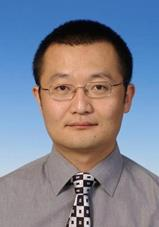
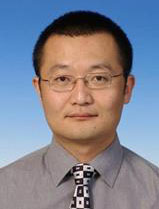
Updated Robins and Ziyuan's Picture

diff --git a/index.html b/index.html
@@ -8,9 +8,11 @@
     <link rel="shortcut icon" href="http://www.gmissionhkust.com/favicon.ico">
   <!-- Bootstrap -->
   <link rel="stylesheet" href="css/bootstrap.css" >
-<link rel="stylesheet" href="//netdna.bootstrapcdn.com/bootstrap/3.3.6/css/bootstrap.min.css">
+  <link rel="stylesheet" href="//netdna.bootstrapcdn.com/bootstrap/3.3.6/css/bootstrap.min.css">
 <link rel="stylesheet" href="//blueimp.github.io/Gallery/css/blueimp-gallery.min.css">
 <link rel="stylesheet" href="css/bootstrap-image-gallery.css">
+
+
   
 	
 
@@ -291,6 +293,17 @@ Chen Jason Zhang, Lei Chen, H. V. Jagadish, and Chen Caleb Cao. "Reducing uncert
         <p>M.Sc. Student, HKUST</p>
 
       </div>
+      
+      <div class="col-lg-4 col-sm-12 text-center col-md-4" data-holder-rendered="true">
+        
+
+      </div>
+      <div class="col-lg-4 col-sm-12 text-center col-md-4"><img src="images/Team Members/Libin Zheng.png" alt="140x140" class="img-circle" style="width: 140px; height: 184px;" data-holder-rendered="true">
+        <h3>Libin ZHENG</h3>
+        <p>Ph.D. Student, HKUST</p>
+
+      </div>
+      
 
       
 
@@ -315,7 +328,7 @@ Chen Jason Zhang, Lei Chen, H. V. Jagadish, and Chen Caleb Cao. "Reducing uncert
         
       </div>
       
-      <div class="col-sm-12 text-center col-md-4"><img class="img-circle" alt="140x140" style="width: 140px; height: 184px;" src="images/sample.jpg" data-holder-rendered="true">
+      <div class="col-sm-12 text-center col-md-4"><img class="img-circle" alt="140x140" style="width: 140px; height: 184px;" src="images/Team Members/Ziyuan Zhao.jpg" data-holder-rendered="true">
         <h3>Ziyuan ZHAO</h3>
         <p>M.Phil. Student, HKUST <br>2014-2015</p>
         
@@ -426,6 +439,7 @@ Chen Jason Zhang, Lei Chen, H. V. Jagadish, and Chen Caleb Cao. "Reducing uncert
 <script src="//netdna.bootstrapcdn.com/bootstrap/3.3.6/js/bootstrap.min.js"></script>
 <script src="//blueimp.github.io/Gallery/js/jquery.blueimp-gallery.min.js"></script>
 <script src="js/bootstrap-image-gallery.js"></script>
+
 
 
 
